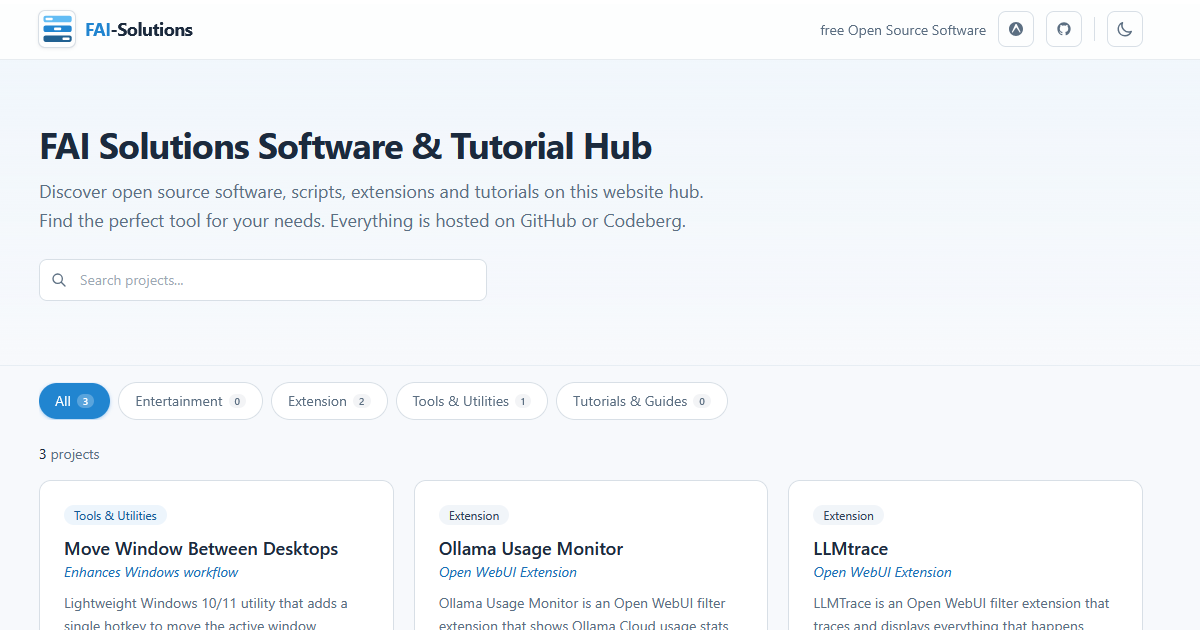
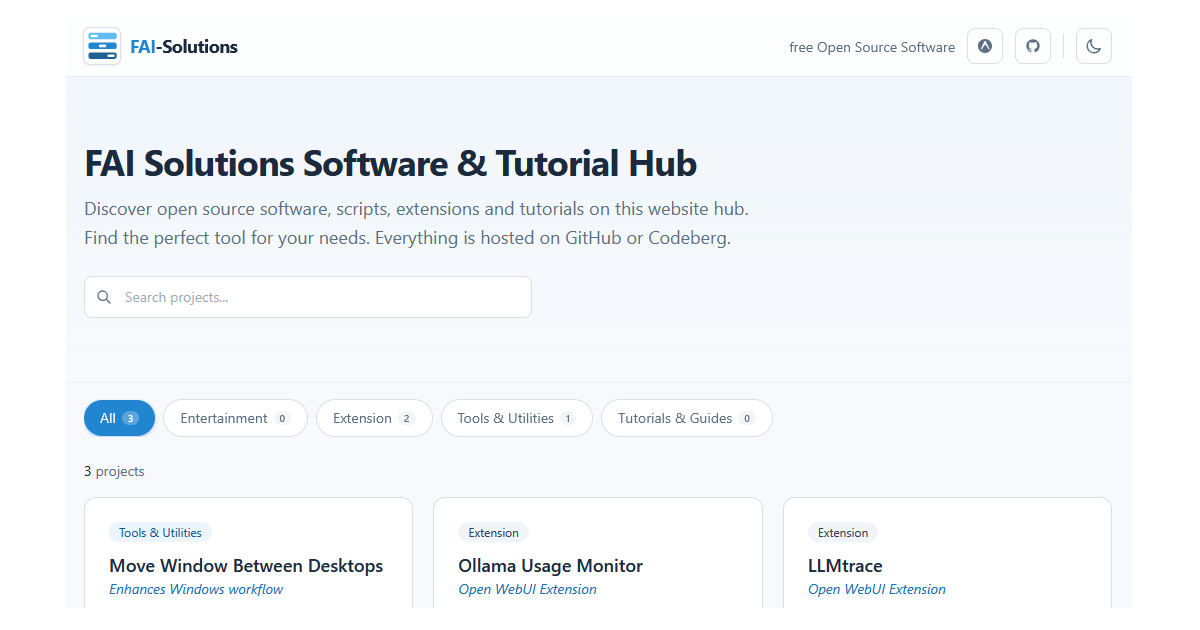
Add files via upload

diff --git a/index.html b/index.html
@@ -6,13 +6,18 @@
     <meta name="viewport" content="width=device-width, initial-scale=1.0" />
     <title>Open Source Hub — Open Source Software, Extensions & Tutorials Hub</title>
     <meta name="description" content="A hub for free, open source software, scripts, browser/Open WebUI extensions, tutorials and benchmarks. Curated by FAI Solutions." />
-    <meta name="keywords" content="open source, free software, open webui extensions, ollama, tutorials, benchmarks, windows utilities, AHK" />
+    <meta name="keywords" content="open source, free software, open webui extensions, ollama, llama.cpp,tutorials, benchmarks, windows utilities, AHK" />
     <meta name="author" content="FAI Solutions" />
     <link rel="canonical" href="https://fai-solutions.github.io/" />
     <meta name="robots" content="index, follow" />
-    <link rel="icon" type="image/svg+xml" href="./favicon.svg" />
+    <link rel="icon" type="image/svg+xml" href="https://fai-solutions.github.io/favicon/favicon.svg" />
+    <link rel="icon" type="image/png" href="https://fai-solutions.github.io/favicon/favicon-96x96.png" sizes="96x96" />
+    <link rel="shortcut icon" href="https://fai-solutions.github.io/favicon/favicon.ico" />
+    <link rel="apple-touch-icon" sizes="180x180" href="https://fai-solutions.github.io/favicon/apple-touch-icon.png" />
+    <meta name="apple-mobile-web-app-title" content="FAISolutions" />
+    <link rel="manifest" href="https://fai-solutions.github.io/favicon/site.webmanifest" />
 
-    <!-- Google Bing — HTML tags-->
+    <!-- Google Bing — HTML tags -->
     <meta name="google-site-verification" content="crt_SlmKNjWa1SxEMLv-7y-4bcrJEmJXvkslwVcI-_M" />
     <meta name="msvalidate.01" content="E199B3A22753844730F3E9B6E978D7C2" />
 
@@ -26,7 +31,7 @@
     <meta property="og:image:width" content="1200" />
     <meta property="og:image:height" content="630" />
 
-    <!-- Twitter / X -->
+    <!-- Twitter -->
     <meta name="twitter:card" content="summary_large_image" />
     <meta name="twitter:title" content="FAI Solutions — Open Source Hub" />
     <meta name="twitter:description" content="Free, open source software, extensions and tutorials." />